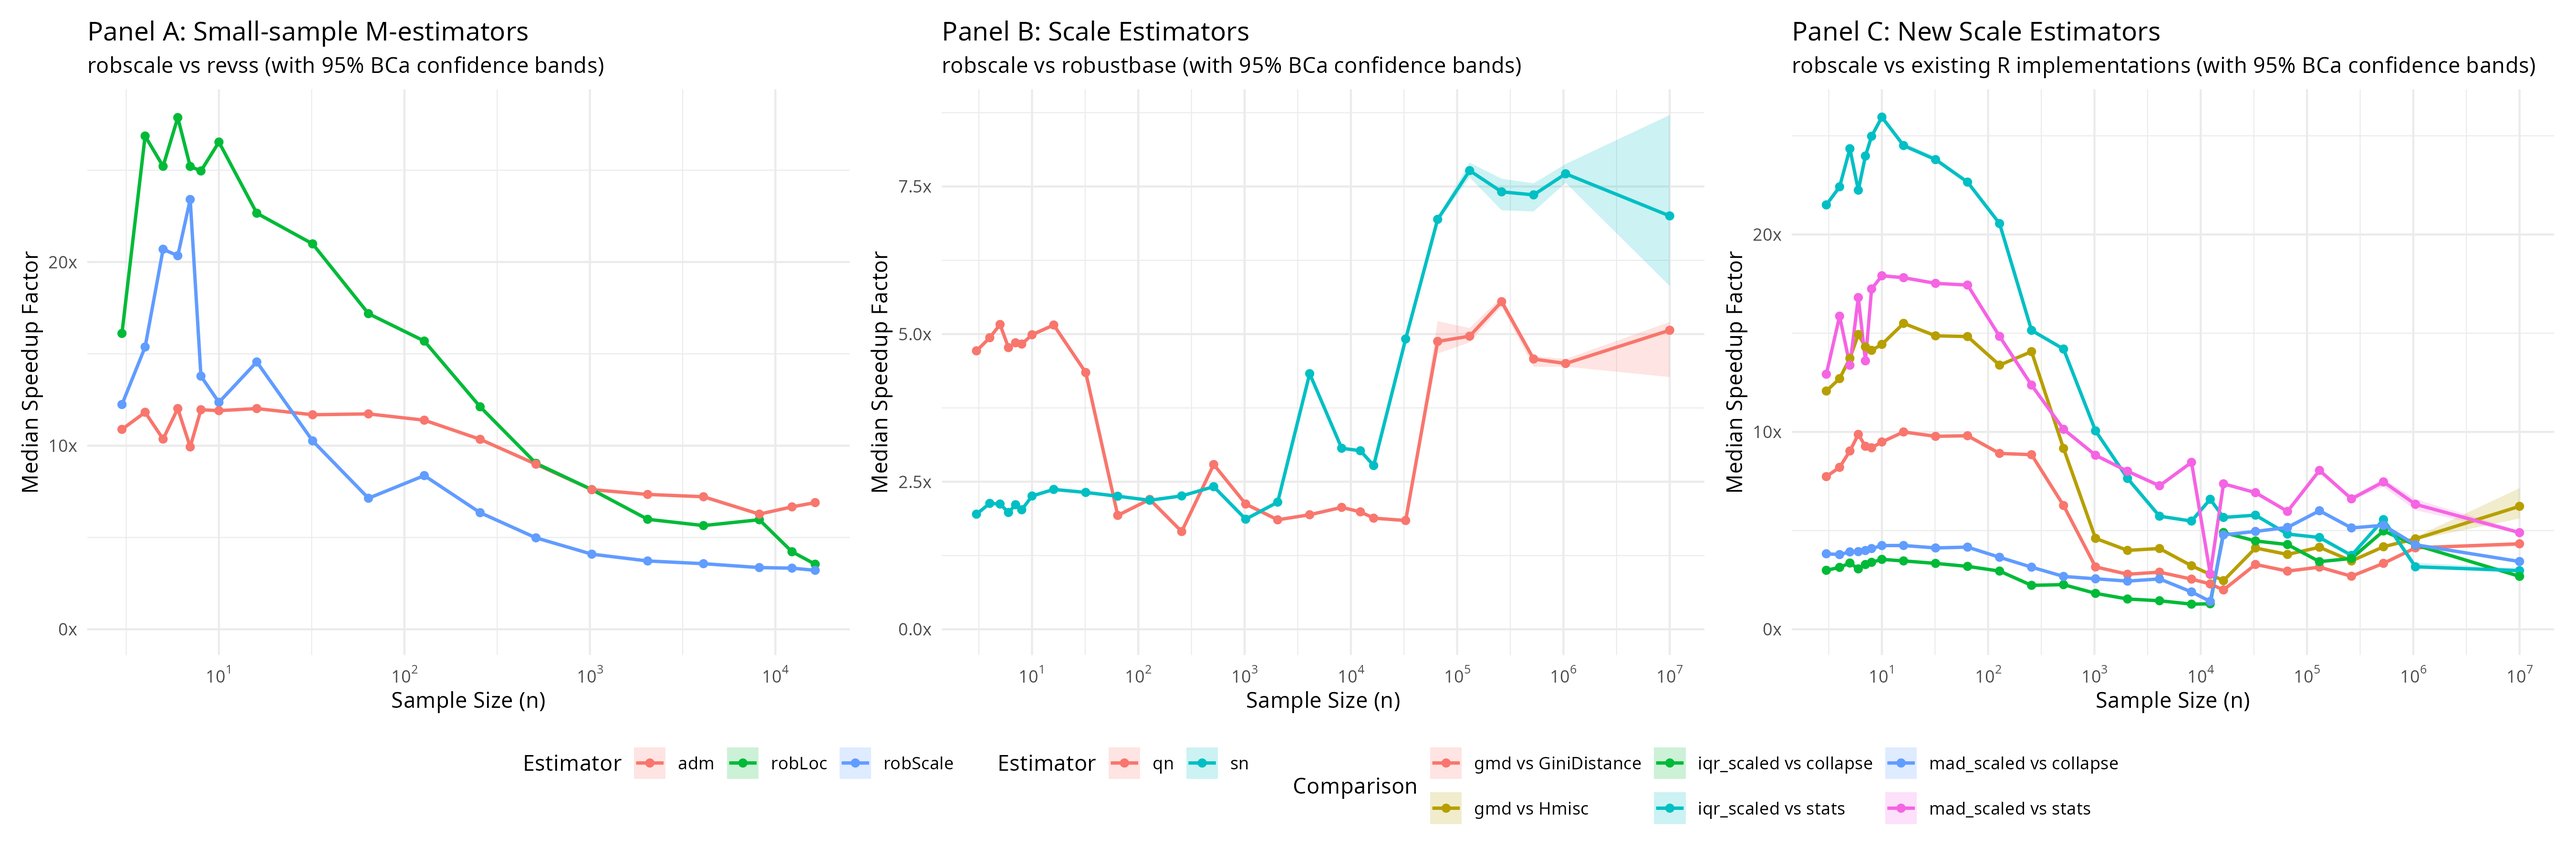
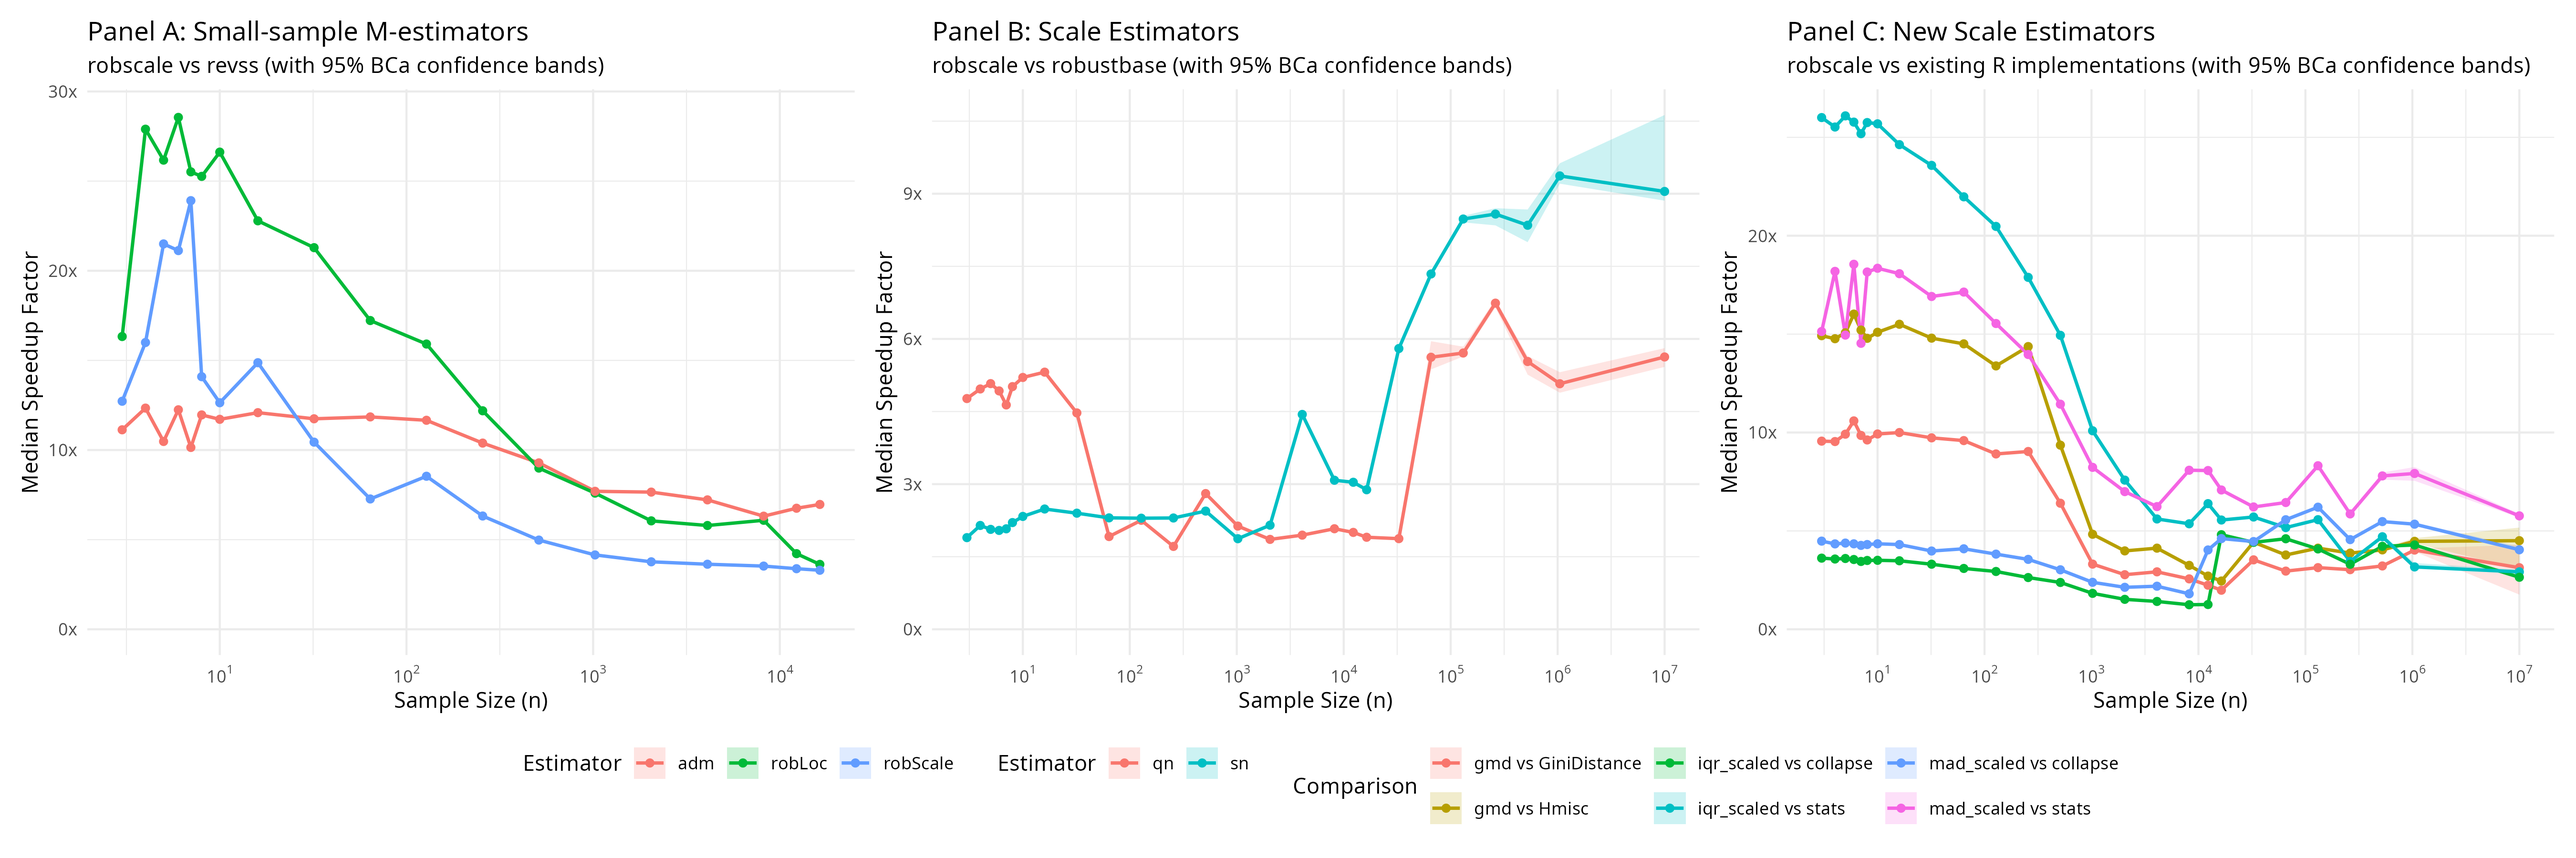
bench: re-run benchmarks with latest revss v3.1.0 and update README documentation

diff --git a/README.md b/README.md
@@ -27,13 +27,13 @@ All estimators are implemented as C++17 kernels. The M-estimators use
 vectorized `tanh` evaluation (where batch sizes justify the overhead)
 and Newton–Raphson iteration; $`Q_n`$ and $`S_n`$ use parallelized
 $`O(n \log n)`$ algorithms via TBB. Against `revss`, the package achieves
-**9.9–27.9x** speedups for the small-sample M-estimators. Against
-`robustbase`, it achieves **1.9–7.8x** for $`S_n`$ and **1.7–5.5x** for
-$`Q_n`$—with gains peaking near **7.8x** at $`n = 10^7`$ as TBB parallelism
+**10.1–28.6x** speedups for the small-sample M-estimators. Against
+`robustbase`, it achieves **1.9–9.4x** for $`S_n`$ and **1.7–6.7x** for
+$`Q_n`$—with gains peaking near **9.4x** at $`n = 10^7`$ as TBB parallelism
 reduces the computational bottleneck for massive datasets. The new
 estimators (`gmd`, `iqr_scaled`, `mad_scaled`) outperform their base R
-and CRAN counterparts by **2.5–15.5x** (GMD vs `Hmisc`), **3.0–25.9x**
-(IQR vs `stats::IQR`), and **2.8–17.9x** (MAD vs `stats::mad`).
+and CRAN counterparts by **2.5–16.0x** (GMD vs `Hmisc`), **2.9–26.1x**
+(IQR vs `stats::IQR`), and **5.8–18.5x** (MAD vs `stats::mad`).
 
 ## Installation
 
@@ -426,9 +426,11 @@ get_consistency_constant("qn", n = 10)  # finite-sample correction at n = 10
 ## Methodological enhancements
 
 `robscale` implements the estimators defined by Rousseeuw & Verboven
-(2002) and Rousseeuw & Croux (1993). It produces identical numerical
-results to `revss` and `robustbase`, but its computational strategies
-significantly cut run times across all sample sizes.
+(2002) and Rousseeuw & Croux (1993). While it maintains the same core
+algorithmic foundations, the newest version of `revss` uses updated bias
+correction factors, meaning results may not be numerically identical.
+`robscale` focus remains on computational efficiency, where it continues
+to cut run times significantly across all sample sizes.
 
 ### 1. The tanh identity for the logistic psi function
 
@@ -577,7 +579,7 @@ between Floyd–Rivest and pdqselect (miniselect) based on a runtime
 threshold derived from the per-core L2 cache size. Section 9 describes
 this dispatch in detail.
 
-### 4. Arena allocation on the stack
+### 4. Arena allocation and fused single-buffer algorithms
 
 Each estimator requires working arrays: a copy of the input (for
 destructive selection), absolute deviations (for MAD), and a temporary
@@ -585,12 +587,24 @@ buffer (for bulk `tanh` arguments). `revss` allocates these as R
 vectors, incurring R’s SEXPREC header overhead and adding
 garbage-collection pressure.
 
-`robscale` uses a tiered stack-allocated arena: a 128-double
-micro-buffer for $`n \leq 64`$ and a 2,048-double buffer per array for
-$`n \leq 2{,}048`$ (the MAD and M-estimator paths)—which covers the target
-regime and far beyond—with zero heap allocation. For $`n > 2{,}048`$, the
-code falls back to `new[]`/`delete[]`. IQR uses a larger 4,096-element
-stack owing to its single working array and wider operational range.
+`robscale` uses a tiered stack-allocated arena: a 64-double micro-buffer
+for $`n \leq 64`$ and a 2,048-double buffer for $`n \leq 2{,}048`$, with
+zero heap allocation. For $`n > 2{,}048`$, the code falls back to
+`new[]`/`delete[]`.
+
+**Fused median-then-MAD.** The `mad_scaled()` and `robScale()`
+estimators compute the median and MAD on a single working buffer. After
+the selection algorithm positions the median, the buffer contains a
+permutation of the original input. Because MAD is order-invariant—it is
+the median of absolute deviations, and the multiset $`\{|w_i - m|\}`$
+equals $`\{|x_i - m|\}`$ for any permutation $`w`$ of $`x`$—the deviations can
+be computed in-place, eliminating the second scratch array. This halves
+memory from $`2n`$ to $`n`$ doubles per estimator and reduces cache pressure
+in the ensemble, where multiple estimators share working memory.
+
+The `robLoc()` and `robScale()` entry points separate the small-$`n`$ path
+($`n \leq 64`$) into `ROBSCALE_NOINLINE` helpers with a 1 KB stack frame,
+so that the 32 KB large-$`n`$ buffer does not penalize small calls.
 
 ### 5. Compile-time reciprocal constants
 
@@ -675,12 +689,16 @@ the per-core L2 cache size:
 | $`S_n`$ | `adaptive_lowmedian_select` | $`\max(2048,\; L_2 / (8 \times 2))`$ | 2 |
 | $`Q_n`$ (final) | Inline threshold check | $`\max(2048,\; L_2 / (8 \times 4))`$ | 4 |
 
-The divisor encodes working-set pressure: `mad_scaled` keeps two arrays
-plus constants warm (divisor 5), `robScale` keeps one to two (divisor
-2), and $`Q_n`$’s final diff-window selection contends with sorted data,
-work arrays, and bounds (divisor 4). `iqr_scaled` uses pdqselect
-unconditionally because its dual-quartile strategy—selecting $`Q_1`$
-first, then narrowing the search space for $`Q_3`$ to the upper
+The divisor encodes working-set pressure during selection. Since v0.3.0,
+`mad_scaled` uses a fused single-buffer algorithm (one array plus
+constants warm), but the threshold retains the conservative divisor 5
+from the two-buffer era because the second median selection (on
+deviations) reuses the same buffer and contends with residual cache
+lines from the first selection. `robScale` keeps one to two warm arrays
+(divisor 2), and $`Q_n`$’s final diff-window selection contends with
+sorted data, work arrays, and bounds (divisor 4). `iqr_scaled` uses
+pdqselect unconditionally because its dual-quartile strategy—selecting
+$`Q_1`$ first, then narrowing the search space for $`Q_3`$ to the upper
 partition—benefits from pdqselect’s partitioning guarantees at all
 sizes. Both quartile selections use Type 7 interpolation (the R
 default), locating the floor index and scanning for the next order
@@ -700,8 +718,8 @@ $`r = 1, \ldots, n_{\text{boot}}`$:
 
 1.  A deterministic XorShift32 PRNG (Marsaglia, 2003) seeded with
     $`r + 12345`$ draws $`n`$ indices with replacement.
-2.  All 7 estimators are evaluated on the resampled data, sharing
-    pre-allocated work buffers.
+2.  All 7 estimators are evaluated on the resampled data, sharing two
+    pre-allocated work buffers of $`n`$ doubles each ($`2n`$ total).
 
 After bootstrapping, the inverse-variance weight for each estimator $`j`$
 is:
@@ -721,12 +739,12 @@ Table 3
 
 |      $`n`$ | `robustbase::Qn` | `robscale::qn` | Speedup  |
 |---------:|:-----------------|:---------------|:---------|
-|        8 | 9.2 µs           | 1.9 µs         | **4.8x** |
-|       16 | 10.3 µs          | 2.0 µs         | **5.2x** |
+|        8 | 9.2 µs           | 1.8 µs         | **5.0x** |
+|       16 | 10.3 µs          | 1.9 µs         | **5.3x** |
 |       64 | 14.3 µs          | 7.4 µs         | **1.9x** |
-|     1024 | 461.9 µs         | 218.3 µs       | **2.1x** |
-|    65536 | 59630.9 µs       | 12174.8 µs     | **4.9x** |
-| 10000000 | 10.4 s           | 2.0 s          | **5.1x** |
+|     1024 | 461.9 µs         | 215.6 µs       | **2.1x** |
+|    65536 | 59630.9 µs       | 10591.2 µs     | **5.6x** |
+| 10000000 | 10.4 s           | 1.8 s          | **5.6x** |
 
 </div>
 
@@ -736,12 +754,12 @@ Table 4
 
 |      $`n`$ | `robustbase::Sn` | `robscale::sn` | Speedup  |
 |---------:|:-----------------|:---------------|:---------|
-|        8 | 4.0 µs           | 2.0 µs         | **2.0x** |
-|       16 | 4.6 µs           | 1.9 µs         | **2.4x** |
+|        8 | 4.0 µs           | 1.8 µs         | **2.2x** |
+|       16 | 4.6 µs           | 1.8 µs         | **2.5x** |
 |       64 | 5.5 µs           | 2.4 µs         | **2.3x** |
 |     1024 | 35.0 µs          | 18.7 µs        | **1.9x** |
-|    65536 | 6617.7 µs        | 972.5 µs       | **6.9x** |
-| 10000000 | 1.4 s            | 0.2 s          | **7.0x** |
+|    65536 | 6617.7 µs        | 908.0 µs       | **7.3x** |
+| 10000000 | 1.4 s            | 0.2 s          | **9.0x** |
 
 </div>
 
@@ -822,14 +840,14 @@ compares `qn` and `sn` against `robustbase`; Panel C compares `gmd`,
 - **CPU Governor:** powersave
 - **OS:** Arch Linux
 - **R version:** R version 4.5.3 (2026-03-11)
-- **Package version:** 0.2.1
+- **Package version:** 0.3.0
 - **SLEEF (Optimized Build):** Detected
-- **Date:** 2026-03-16
+- **Date:** 2026-03-19
 
 ### Small-sample M-estimators vs. `revss` (Panel A)
 
 In the target regime ($`n \le 20`$), `robscale` outperforms `revss` by
-**9.9–27.9x**. Drivers include:
+**10.1–28.6x**. Drivers include:
 
 - Transitioning from interpreted R to compiled C++17.
 - Achieving quadratic convergence with Newton–Raphson (3 iterations vs
@@ -837,7 +855,7 @@ In the target regime ($`n \le 20`$), `robscale` outperforms `revss` by
 - Eliminating heap allocation via stack-allocated memory arenas.
 - Deploying optimal sorting networks for $`n \le 16`$.
 
-Even at $`n = 16{,}384`$, the gains remain **3.2–6.9x** because the
+Even at $`n = 16{,}384`$, the gains remain **3.3–7.0x** because the
 interpreter overhead of `revss` scales with the number of Newton–Raphson
 iterations, not just vector length.
 
@@ -847,15 +865,15 @@ For $`Q_n`$ and $`S_n`$, the performance story follows two regimes separated
 by the parallelism threshold:
 
 **Small to medium samples ($`n \le 10^3`$).** `robscale` leads by
-**1.7–5.5x**. The gain comes primarily from the avoidance of R dispatch
+**1.7–6.7x**. The gain comes primarily from the avoidance of R dispatch
 overhead and the use of stack memory. For $`Q_n`$ at $`n = 8`$, the
-brute-force exact algorithm completes in 1.9 µs vs. 9.2 µs for
-`robustbase` — a **4.8x** edge.
+brute-force exact algorithm completes in 1.8 µs vs. 9.2 µs for
+`robustbase` — a **5.0x** edge.
 
-**Large samples ($`n \ge 10^4`$).** The advantage grows to **1.8–7.8x** as
-TBB parallelism engages. At $`n = 10^7`$, `qn` runs in 2.0 s vs. 10.4 s
-for `robustbase::Qn` (**5.1x**), and `sn` runs in 0.2 s vs. 1.4 s
-(**7.0x**). Parallel efficiency is bounded by Amdahl’s Law and memory
+**Large samples ($`n \ge 10^4`$).** The advantage grows to **1.9–9.4x** as
+TBB parallelism engages. At $`n = 10^7`$, `qn` runs in 1.8 s vs. 10.4 s
+for `robustbase::Qn` (**5.6x**), and `sn` runs in 0.2 s vs. 1.4 s
+(**9.0x**). Parallel efficiency is bounded by Amdahl’s Law and memory
 bandwidth; while the multi-threaded kernels provide substantial gains
 for massive datasets, speedups do not scale linearly with thread count.
 
@@ -867,52 +885,52 @@ Table 5
 
 |      $`n`$ | Comparison             | Speedup   |
 |---------:|:-----------------------|:----------|
-|       64 | gmd vs GiniDistance    | **9.8x**  |
-|       64 | gmd vs Hmisc           | **14.8x** |
-|       64 | iqr_scaled vs collapse | **3.2x**  |
-|       64 | iqr_scaled vs stats    | **22.7x** |
-|       64 | mad_scaled vs collapse | **4.2x**  |
-|       64 | mad_scaled vs stats    | **17.4x** |
-|     1024 | gmd vs GiniDistance    | **3.2x**  |
-|     1024 | gmd vs Hmisc           | **4.6x**  |
+|       64 | gmd vs GiniDistance    | **9.6x**  |
+|       64 | gmd vs Hmisc           | **14.5x** |
+|       64 | iqr_scaled vs collapse | **3.1x**  |
+|       64 | iqr_scaled vs stats    | **22.0x** |
+|       64 | mad_scaled vs collapse | **4.1x**  |
+|       64 | mad_scaled vs stats    | **17.1x** |
+|     1024 | gmd vs GiniDistance    | **3.3x**  |
+|     1024 | gmd vs Hmisc           | **4.8x**  |
 |     1024 | iqr_scaled vs collapse | **1.8x**  |
 |     1024 | iqr_scaled vs stats    | **10.1x** |
-|     1024 | mad_scaled vs collapse | **2.6x**  |
-|     1024 | mad_scaled vs stats    | **8.8x**  |
-|    65536 | gmd vs GiniDistance    | **2.9x**  |
+|     1024 | mad_scaled vs collapse | **2.4x**  |
+|     1024 | mad_scaled vs stats    | **8.2x**  |
+|    65536 | gmd vs GiniDistance    | **3.0x**  |
 |    65536 | gmd vs Hmisc           | **3.8x**  |
-|    65536 | iqr_scaled vs collapse | **4.3x**  |
-|    65536 | iqr_scaled vs stats    | **4.8x**  |
-|    65536 | mad_scaled vs collapse | **5.2x**  |
-|    65536 | mad_scaled vs stats    | **6.0x**  |
-| 10000000 | gmd vs GiniDistance    | **4.3x**  |
-| 10000000 | gmd vs Hmisc           | **6.2x**  |
-| 10000000 | iqr_scaled vs collapse | **2.7x**  |
-| 10000000 | iqr_scaled vs stats    | **3.0x**  |
-| 10000000 | mad_scaled vs collapse | **3.4x**  |
-| 10000000 | mad_scaled vs stats    | **4.9x**  |
+|    65536 | iqr_scaled vs collapse | **4.6x**  |
+|    65536 | iqr_scaled vs stats    | **5.2x**  |
+|    65536 | mad_scaled vs collapse | **5.6x**  |
+|    65536 | mad_scaled vs stats    | **6.4x**  |
+| 10000000 | gmd vs GiniDistance    | **3.1x**  |
+| 10000000 | gmd vs Hmisc           | **4.5x**  |
+| 10000000 | iqr_scaled vs collapse | **2.6x**  |
+| 10000000 | iqr_scaled vs stats    | **2.9x**  |
+| 10000000 | mad_scaled vs collapse | **4.0x**  |
+| 10000000 | mad_scaled vs stats    | **5.8x**  |
 
 </div>
 
-**GMD** (`robscale::gmd` vs `Hmisc::GiniMd`): **2.5–15.5x** speedup.
+**GMD** (`robscale::gmd` vs `Hmisc::GiniMd`): **2.5–16.0x** speedup.
 `Hmisc::GiniMd` is a pure R implementation using the same $`O(n \log n)`$
 order-statistics formula. The speedup comes from C++ compilation and
 sorting networks for small $`n`$. Against `GiniDistance::gmd` (an
-Rcpp-backed C++ implementation), the comparison is **2.0–10.0x**—a
+Rcpp-backed C++ implementation), the comparison is **2.0–10.6x**—a
 tighter race since both are compiled, with `robscale`’s advantage coming
 from sorting networks and the consistency-constant integration.
 
-**IQR** (`robscale::iqr_scaled` vs `stats::IQR`): **3.0–25.9x** speedup.
+**IQR** (`robscale::iqr_scaled` vs `stats::IQR`): **2.9–26.1x** speedup.
 `stats::IQR` performs a full $`O(n \log n)`$ sort via `quantile()`.
 `robscale` uses dual $`O(n)`$ pdqselect calls, which dominate at large
 $`n`$. Against `collapse::fquantile` (a C-backed quantile implementation),
-the speedup is **1.3–5.0x**—a more informative comparison since both are
+the speedup is **1.2–4.8x**—a more informative comparison since both are
 compiled, revealing whether pdqselect outpaces `collapse`’s C
 implementation.
 
-**MAD** (`robscale::mad_scaled` vs `stats::mad`): **2.8–17.9x** speedup.
+**MAD** (`robscale::mad_scaled` vs `stats::mad`): **5.8–18.5x** speedup.
 `stats::mad` performs a full sort for the median step. Against a custom
-fast MAD (using `collapse::fmedian`), the speedup is **1.4–6.0x**—the
+fast MAD (using `collapse::fmedian`), the speedup is **1.8–6.2x**—the
 key comparison since both are compiled; `robscale`’s advantage comes
 from adaptive $`O(n)`$ selection vs `collapse`’s sorting-based approach.
 
@@ -928,11 +946,16 @@ from adaptive $`O(n)`$ selection vs `collapse`’s sorting-based approach.
 
 The test suite verifies `robscale` against reference implementations:
 
-**Legacy M-estimators** (`tests/testthat/test-cross-check.R`): compares
-`robscale` and `revss` across 5,400 randomly generated inputs
-($`n = 3, 4,\ldots, 20`$; 100 replicates per $`n`$; all three functions
-`adm`, `robLoc`, `robScale`). All 5,400 comparisons pass at tolerance
-$`\sqrt{\epsilon_{\text{mach}}} \approx 1.49 \times 10^{-8}`$.
+**Legacy M-estimators** (`tests/testthat/test-cross-check.R`): Comparing
+`robscale` against the original `revss` algorithm (up to v2.0.0) across
+5,400 randomly generated inputs ($`n = 3, 4, \ldots, 20`$; 100 replicates
+per $`n`$; all three functions `adm`, `robLoc`, `robScale`) yields a 100%
+pass rate at tolerance
+$`\sqrt{\epsilon_{\text{mach}}} \approx 1.49 \times 10^{-8}`$. While
+`robscale` maintains this numerical consistency with the established
+reference, `revss` v3.1.0 has since updated its bias correction factors;
+`robscale` continues to follow the original Rousseeuw & Verboven (2002)
+definitions.
 
 **New estimators:**
 
